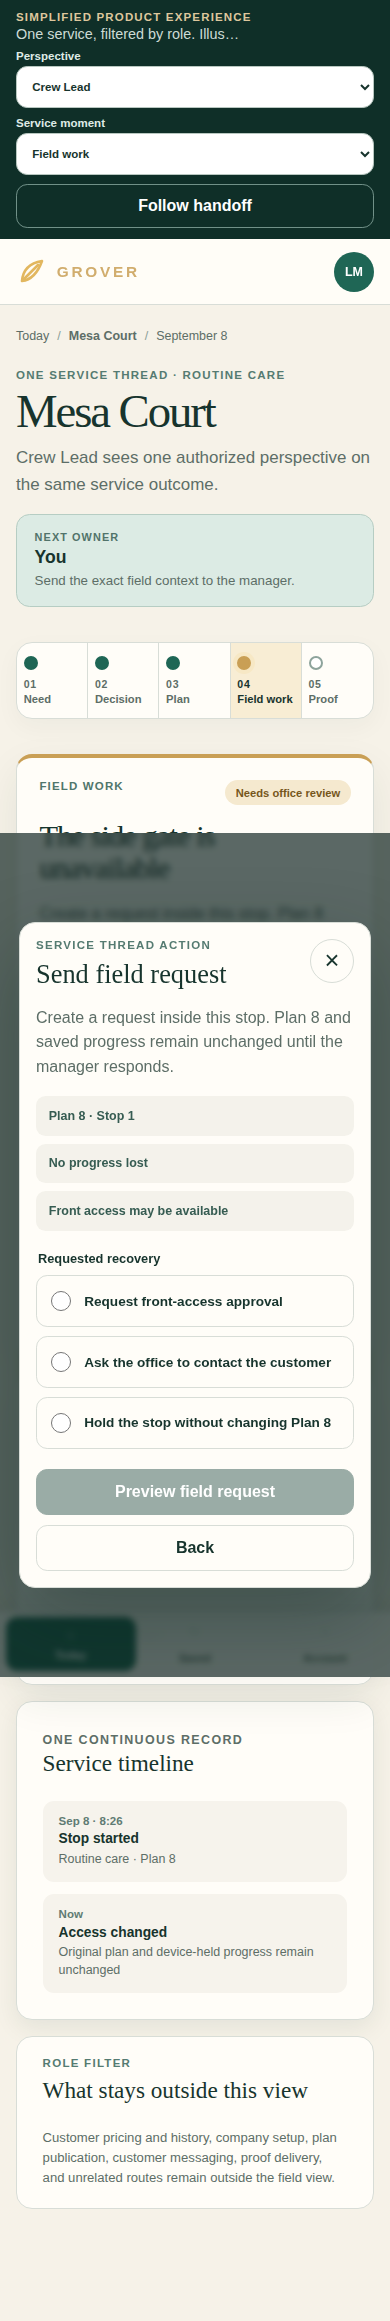
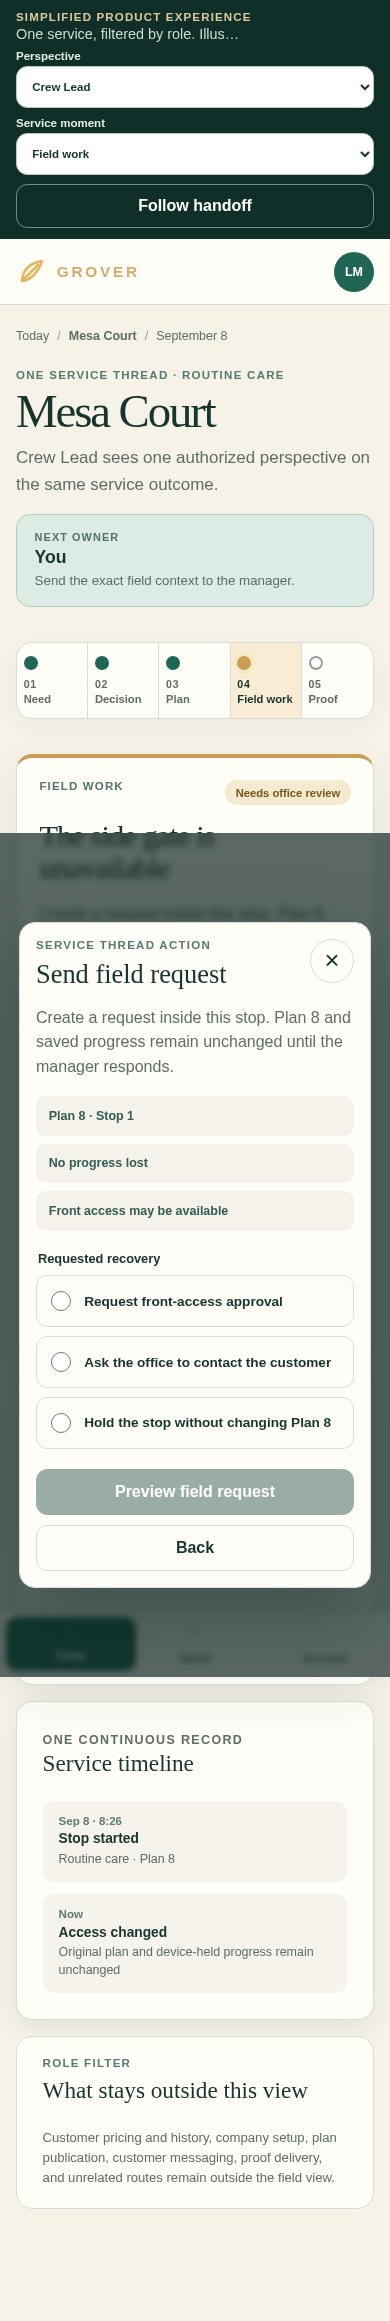
Extend simplified service thread roles

diff --git a/design/prototypes/simplified-service-thread/app.js b/design/prototypes/simplified-service-thread/app.js
@@ -55,6 +55,98 @@ const personas = {
       },
     },
   },
+  property: {
+    name: 'Property Manager', identity: 'Morgan L.', initials: 'ML', family: 'PORTFOLIO SERVICE', collection: 'Properties',
+    nav: [['overview', 'Overview', '⌂'], ['properties', 'Properties', '▦'], ['account', 'Account', '○']], active: 'properties',
+    boundary: 'Provider route versions, crew identity, internal recovery notes, unrelated properties, draft evidence, and company administration remain outside this portfolio view.',
+    why: 'A property manager needs an exception-first portfolio entry, then one complete property service story—not separate property, approval, proof, and provider-operation products.',
+    timeline: {
+      decision: [['Sep 5', 'Routine care requested', 'Mesa Court · authorized property'], ['Sep 6', 'Recommendation version 2 ready', 'Exact property, scope, and decision consequence together']],
+      release: [['Sep 6', 'Version 2 accepted', 'Decision receipt retained'], ['Sep 7', 'Service confirmed', 'September 8 · 8:00–10:00 AM']],
+      field: [['Sep 8 · 8:26', 'Care started', 'Customer-safe portfolio update'], ['Sep 8 · 8:41', 'Access review underway', 'Provider owns the next response']],
+      proof: [['Sep 8 · 9:18', 'Care completed', 'Provider review followed'], ['Sep 8 · 9:34', 'Proof delivered', 'Mesa Court · six tasks and three reviewed photos']],
+    },
+    moments: {
+      decision: {
+        stage: 'Decision', status: 'Portfolio decision', title: 'Mesa Court needs one exact response',
+        copy: 'The authorized property, recommendation version, scope, and consequence remain together.',
+        owner: 'You', update: 'No service is scheduled until an authorized response.',
+        facts: ['Mesa Court · Version 2', '$145 exact total', '11 other properties unaffected'],
+        essentials: [['Portfolio', 'Desert Vista'], ['Property', 'Mesa Court'], ['Requested timing', 'September 8']],
+        action: 'Review property recommendation', choiceLabel: 'Response to version 2', options: ['Accept for Mesa Court', 'Request a property-specific revision', 'Ask a question before deciding'], confirm: 'Preview portfolio response',
+      },
+      release: {
+        stage: 'Plan', status: 'Confirmed', title: 'Mesa Court service is scheduled',
+        copy: 'The accepted decision, property access, and customer-visible timing stay in one property thread.',
+        owner: 'Grover Yard Care', update: 'The provider owns service delivery and the next update.',
+        facts: ['September 8 · 8:00–10:00 AM', 'Property access current', 'No portfolio action required'],
+        essentials: [['Accepted scope', 'Routine yard care'], ['Decision', 'Version 2 accepted'], ['Portfolio impact', 'No other property changed']],
+        action: 'Review confirmed service',
+      },
+      field: {
+        stage: 'Field work', status: 'Provider reviewing', title: 'Mesa Court access is being resolved',
+        copy: 'The portfolio sees the customer-safe consequence and responsible provider without internal route or crew detail.',
+        owner: 'Grover Yard Care', update: 'The current arrival window remains in place.',
+        facts: ['Care began at 8:26 AM', 'Access review in progress', 'No portfolio decision requested'],
+        essentials: [['Property', 'Mesa Court'], ['Service state', 'In progress'], ['Next update', 'Resolution or delivered proof']],
+        action: 'Review property service',
+      },
+      proof: {
+        stage: 'Proof', status: 'Delivered', title: 'Mesa Court care is ready to review',
+        copy: 'The property decision, service chronology, and reviewed proof close one portfolio thread.',
+        owner: 'You', update: 'Review the outcome or continue to another exception.',
+        facts: ['6 tasks completed', '3 provider-reviewed photos', 'No other property affected'],
+        essentials: [['Property', 'Mesa Court'], ['Delivered', 'September 8 · 9:34 AM'], ['Portfolio', 'Desert Vista']],
+        action: 'Review property outcome', choiceLabel: 'Portfolio review', options: ['Outcome is clear for Mesa Court', 'Ask about this exact service'], confirm: 'Preview portfolio response',
+      },
+    },
+  },
+  company: {
+    name: 'Company Owner', identity: 'Avery K.', initials: 'AK', family: 'BUSINESS READINESS', collection: 'Operations',
+    nav: [['home', 'Home', '⌂'], ['operations', 'Operations', '▦'], ['customers', 'Customers', '◇'], ['team', 'Team', '◎']], active: 'operations',
+    boundary: 'Customer-private conversation, route editing, low-level field controls, draft evidence, platform support, and unsupported billing remain outside this owner view.',
+    why: 'The Company Owner enters the exact service only when readiness or business consequence warrants attention. Daily coordination remains with the manager inside the same record.',
+    timeline: {
+      decision: [['Sep 5', 'Mesa Court relationship authorized', 'Customer and property readiness confirmed'], ['Sep 6', 'Manager owns service decision', 'No owner-level blocker remains']],
+      release: [['Sep 6', 'Customer decision completed', 'Exact operating work is ready'], ['Sep 7', 'Tomorrow is operationally covered', 'Manager and Crew Lead ownership confirmed']],
+      field: [['Sep 8 · 8:26', 'Mesa Court service began', 'Routine operating state'], ['Sep 8 · 8:41', 'One service risk is owned', 'Manager response in progress; no owner action']],
+      proof: [['Sep 8 · 9:18', 'Field work completed', 'Manager review followed'], ['Sep 8 · 9:34', 'Customer outcome delivered', 'No owner-level exception remains']],
+    },
+    moments: {
+      decision: {
+        stage: 'Decision', status: 'Ready', title: 'Mesa Court has an accountable manager',
+        copy: 'Relationship readiness and the responsible operator are visible without exposing the customer conversation.',
+        owner: 'Company Manager', update: 'The manager owns the exact service decision.',
+        facts: ['Customer relationship active', 'Property access authorized', 'Manager Riley assigned'],
+        essentials: [['Customer account', 'Mesa Court relationship'], ['Business blocker', 'None'], ['Operating owner', 'Company Manager']],
+        action: 'Review business readiness',
+      },
+      release: {
+        stage: 'Plan', status: 'Operationally covered', title: 'Tomorrow’s Mesa Court service is staffed',
+        copy: 'The owner sees business readiness and accountable roles without receiving plan-editing controls.',
+        owner: 'Company Manager', update: 'Daily coordination remains with operations.',
+        facts: ['Customer commitment covered', 'Crew Lead active', 'No owner decision required'],
+        essentials: [['Service date', 'September 8'], ['Responsible manager', 'Riley T.'], ['Field lead', 'Leah M.']],
+        action: 'Review operating coverage',
+      },
+      field: {
+        stage: 'Field work', status: 'Owned service risk', title: 'Mesa Court has one managed exception',
+        copy: 'Only the business consequence and accountable operator reach the owner; field and plan detail stay with operations.',
+        owner: 'Company Manager', update: 'The arrival promise remains achievable.',
+        facts: ['One customer commitment affected', 'Manager response in progress', 'No owner escalation needed'],
+        essentials: [['Customer impact', 'Window still achievable'], ['Operating owner', 'Riley T.'], ['Business risk', 'Contained']],
+        action: 'Review exception ownership',
+      },
+      proof: {
+        stage: 'Proof', status: 'Customer outcome delivered', title: 'Mesa Court closed without an owner-level issue',
+        copy: 'The owner receives business confidence while detailed proof remains with the authorized customer and manager.',
+        owner: 'Company Manager', update: 'No owner action is required.',
+        facts: ['Service completed', 'Customer outcome delivered', 'No open escalation'],
+        essentials: [['Customer commitment', 'Complete'], ['Operating result', 'Delivered'], ['Owner queue', 'Clear']],
+        action: 'Review business outcome',
+      },
+    },
+  },
   manager: {
     name: 'Company Manager', identity: 'Riley T.', initials: 'RT', family: 'PROVIDER OFFICE', collection: 'Work',
     nav: [['today', 'Today', '⌂'], ['work', 'Work', '▦'], ['customers', 'Customers', '◇'], ['team', 'Team', '◎']], active: 'work',
@@ -154,6 +246,14 @@ const handoffs = {
   'owner/release': ['manager', 'release'],
   'owner/field': ['manager', 'field'],
   'owner/proof': ['manager', 'proof'],
+  'property/decision': ['manager', 'release'],
+  'property/release': ['manager', 'release'],
+  'property/field': ['manager', 'field'],
+  'property/proof': ['manager', 'proof'],
+  'company/decision': ['manager', 'decision'],
+  'company/release': ['manager', 'release'],
+  'company/field': ['manager', 'field'],
+  'company/proof': ['manager', 'proof'],
   'manager/decision': ['owner', 'decision'],
   'manager/release': ['lead', 'release'],
   'manager/field': ['lead', 'field'],

diff --git a/design/index.html b/design/index.html
@@ -61,10 +61,12 @@
   </header>
   <main>
     <section id="working"><h2>Validated working designs</h2><p class="intro">Responsive journeys whose navigation, interactions, states, accessibility, and implementation boundaries can be reviewed in the browser.</p>
-      <div class="working-group"><h3>Simplified service thread · active post-MVP direction</h3><p>A clean-slate design keeps one service outcome intact while Yard Owner, Company Manager, and Crew Lead see only their authorized context and action. Decisions, plan versions, field work, proof, and recovery no longer behave like separate products. <a href="review/simplified-product-experience-plan.md">Read the redesign plan →</a></p><div class="grid working-grid">
+      <div class="working-group"><h3>Simplified service thread · active post-MVP direction</h3><p>A clean-slate design keeps one service outcome intact while Yard Owner, Property Manager, Company Owner, Company Manager, and Crew Lead see only their authorized context and action. Decisions, plan versions, field work, proof, and recovery no longer behave like separate products. <a href="review/simplified-product-experience-plan.md">Read the redesign plan →</a></p><div class="grid working-grid">
         <article><a href="prototypes/simplified-service-thread/index.html#manager/field"><img src="high-fidelity/current/simplified-service-thread-desktop-v1.png" alt="Simplified Company Manager service thread reviewing a Crew Lead field request in exact plan context"><div><h3>One context through recovery</h3><span class="status">COMPANY MANAGER · PLAN 8 · FIELD REQUEST</span><p>The manager reviews the request, customer impact, and exact published plan without leaving the affected service.</p></div></a></article>
         <article class="mobile"><a href="prototypes/simplified-service-thread/index.html#owner/proof"><img src="high-fidelity/current/simplified-service-thread-owner-mobile-v1.png" alt="Simplified Yard Owner service thread showing the complete lifecycle and delivered proof"><div><h3>The whole customer outcome</h3><span class="status">YARD OWNER · DECISION → SERVICE → PROOF</span><p>One thread answers what happened, who owns the next step, and what reviewed evidence closes the service.</p></div></a></article>
         <article class="mobile"><a href="prototypes/simplified-service-thread/index.html#lead/field"><img src="high-fidelity/current/simplified-service-thread-field-mobile-v1.png" alt="Simplified Crew Lead service thread creating a field request without changing the published plan"><div><h3>Field recovery stays with the stop</h3><span class="status">CREW LEAD · ACCESS CHANGE · NO SILENT PLAN EDIT</span><p>Scope, access, saved progress, and the office handoff remain inside the current stop.</p></div></a></article>
+        <article><a href="prototypes/simplified-service-thread/index.html#company/field"><img src="high-fidelity/current/simplified-service-thread-company-owner-desktop-v2.png" alt="Simplified Company Owner service thread showing contained business consequence and accountable operating ownership"><div><h3>Business signal without control clutter</h3><span class="status">COMPANY OWNER · CONTAINED RISK · MANAGER OWNED</span><p>Readiness and consequence reach the owner while route editing and field detail stay with operations.</p></div></a></article>
+        <article class="mobile"><a href="prototypes/simplified-service-thread/index.html#property/decision"><img src="high-fidelity/current/simplified-service-thread-property-manager-mobile-v2.png" alt="Simplified Property Manager service thread reviewing one exact authorized-property decision"><div><h3>One property, one exact response</h3><span class="status">PROPERTY MANAGER · PORTFOLIO EXCEPTION</span><p>The affected property, version, scope, and consequence remain together without exposing provider-private operations.</p></div></a></article>
       </div></div>
       <div class="working-group"><h3>Minimalist persona experiences · prior design direction</h3><p>The active <a href="review/simplified-product-experience-plan.md">post-MVP simplification</a> starts from a clean service-thread model rather than editing these screens in place. This broader task-first review remains reference evidence for all ten personas without defining the new composition or rollout authority. <a href="review/minimalist-persona-prototype-plan.md">Read the prior persona plan →</a></p><div class="grid working-grid">
         <article><a href="prototypes/minimalist-personas/index.html#owner/attention/proof"><img src="high-fidelity/current/minimalist-customer-journey-desktop-v2.png" alt="Connected minimalist Yard Owner delivered-proof experience with a focused response task"><div><h3>Connected customer confidence</h3><span class="status">YARD OWNER · TODAY → VISITS → PROOF</span><p>Preparation continues into a concise visit chronology and only provider-reviewed delivered evidence.</p></div></a></article>

diff --git a/design/prototypes/simplified-service-thread/index.html b/design/prototypes/simplified-service-thread/index.html
@@ -18,6 +18,8 @@
     <label>Perspective
       <select id="persona-picker">
         <option value="owner">Yard Owner</option>
+        <option value="property">Property Manager</option>
+        <option value="company">Company Owner</option>
         <option value="manager">Company Manager</option>
         <option value="lead">Crew Lead</option>
       </select>

diff --git a/PLAN.md b/PLAN.md
@@ -15,7 +15,7 @@ infer execution order from section position.
 | Private review | Tailscale React/PostgreSQL review is available in explicit local-review mode | Preserve for remote validation |
 | Protected hosting | No healthy Render/Cognito deployment is available from the current environment | R1 preflight, then external R2 provisioning and R3 smoke |
 | Product | Core workflows plus activity-to-Recovery exception handoff are delivered | P2 Yard Owner concern/preference boundary requires a product decision |
-| Design | SX1 clean-slate service-thread prototype is validated for Yard Owner, Company Manager, and Crew Lead | Extend the same thread to Company Owner and Property Manager without duplicate lifecycle views |
+| Design | SX2 validates one service thread across Yard Owner, Property Manager, Company Owner, Company Manager, and Crew Lead | Add contextual exception and advanced-capability paths without returning to feature silos |
 
 ## Status Legend
 
@@ -137,13 +137,16 @@ Current state:
   plan versions, field work, proof, and recovery remain contextual to that
   thread. The first clean-slate slice focuses on Yard Owner, Company Manager,
   and Crew Lead without deleting mature capability.
-- SX1 is delivered in the
+- SX1 and SX2 are delivered in the
   [simplified service-thread prototype](design/prototypes/simplified-service-thread/README.md).
   The same Mesa Court service moves through decision, exact release, field work
   and manager-reviewed recovery, proof publication, and customer outcome while
   role filtering prevents provider plan data from reaching the Yard Owner and
-  customer pricing from reaching the Crew Lead. Twelve perspective/moment
-  combinations pass desktop, phone, and narrow-phone browser validation.
+  customer pricing from reaching the Crew Lead. Company Owner and Property
+  Manager enter the same lifecycle through business-readiness and portfolio-
+  exception summaries, with exact Company Manager handoffs. Twenty
+  perspective/moment combinations pass desktop, phone, and narrow-phone
+  browser validation.
 
 Next design slices:
 
@@ -185,10 +188,11 @@ Next design slices:
    boundaries are explicit. Human review and bounded family-by-family React
    adoption remain; production adoption has not started.
 8. Simplified product experience: SX0 is delivered and supersedes the prior MVP
-   framing. SX1 now validates one role-filtered service thread across Yard
-   Owner, Company Manager, and Crew Lead without feature-silo context changes.
-   SX2 extends the same model to Company Owner and Property Manager. Research
-   materials remain usable, but no participant evidence is inferred.
+   framing. SX1 and SX2 validate one role-filtered service thread across Yard
+   Owner, Property Manager, Company Owner, Company Manager, and Crew Lead
+   without feature-silo context changes or duplicate lifecycles. SX3 adds
+   contextual exception and advanced-capability paths next. Research materials
+   remain usable, but no participant evidence is inferred.
 
 Concern handling, provider contact, preferences, external reviews, marketplace,
 and billing remain behind their existing product or external gates.
@@ -1096,9 +1100,10 @@ Current state:
 
 Next design work:
 
-- Build SX2 by adding Company Owner business-readiness entry and Property
-  Manager portfolio-exception entry to the same service thread. Avoid duplicate
-  owner/manager or property/service lifecycles. Use the retained session kit for
+- Build SX3 by adding Support incident entry, no-role recovery, and product-
+  gated billing readiness as contextual paths. Exercise plan conflict, field
+  connectivity, proof failure, ended access, and inconsistent authorization
+  without making them new global products. Use the retained session kit for
   later comparative review and keep capability rollout as a separate
   authorization contract.
 - Adopt the Yard Owner proposal interfaces, separate proposal conversation, and

diff --git a/project-planning/PROTOTYPE_ADOPTION.md b/project-planning/PROTOTYPE_ADOPTION.md
@@ -21,7 +21,7 @@ design direction, historical input, or product-gated boundary.
 
 | Experience | Approved design source | Production status | Remaining production adoption |
 | --- | --- | --- | --- |
-| Simplified product experience | [Active service-thread prototype](../design/prototypes/simplified-service-thread/README.md), [post-MVP plan](../design/review/simplified-product-experience-plan.md), and [retained research kit](../design/review/minimal-product-workflow-session-guide.md) | SX1 validated design direction; production adoption not started | Yard Owner, Company Manager, and Crew Lead now follow one exact service through decision, release, field work/recovery, and proof with role-filtered content. Extend Company Owner and Property Manager next; retain other persona work as broader evidence and begin production adoption only after comparative workflow review. |
+| Simplified product experience | [Active service-thread prototype](../design/prototypes/simplified-service-thread/README.md), [post-MVP plan](../design/review/simplified-product-experience-plan.md), and [retained research kit](../design/review/minimal-product-workflow-session-guide.md) | SX2 validated design direction; production adoption not started | Yard Owner, Property Manager, Company Owner, Company Manager, and Crew Lead now follow one exact service through decision, release, field work/recovery, and proof with role-filtered content. Add contextual exception paths next; retain other persona work as broader evidence and begin production adoption only after comparative workflow review. |
 | Current frontend parity | [Dated responsive mirror](../design/prototypes/current-frontend-review/README.md) and [September 3 audit](../design/review/current-frontend-design-audit-2026-09-03.md) | Dated current mirror | Eight representative surfaces preserve the September 3 baseline. Manager Home urgency, shell compression, and truth/recovery were delivered afterward and are intentionally tracked as post-mirror changes. |
 | Frontend truth and recovery | [Working state prototype](../design/prototypes/frontend-truth-recovery/README.md) and [design contract](../design/review/frontend-truth-recovery-design.md) | Adopted | Five Yard Owner protected-read outcomes map to typed API results with fail-closed loading/error behavior, retry or access review, and Home recovery. Crew Route uses local-day date context and bounded persistence-confidence language while preserving durable offline replay/conflict handling. |
 | All-persona minimal rollout | [Functional-unit prototype](../design/prototypes/yard-owner-minimal-rollout/README.md), [all-persona plan](../design/review/all-persona-minimal-rollout-plan.md), [owner plan](../design/review/yard-owner-minimal-rollout-plan.md), and [crew plan](../design/review/crew-lead-minimal-rollout-plan.md) | Adopted repository behavior; hosted evidence pending | Thirty-six cumulative units cover all ten signed-in persona designs. Exact-scope cohorts, immutable lifecycle audit, guarded owner/support operations, cumulative navigation and persona composition, manager continuity, shell clearance, and the protected per-unit runner are delivered for authoritative roles. Hosted execution, operational enablement, and explicit Dispatcher/Billing backend roles remain. |

diff --git a/project-planning/DELIVERY_BOARD.md b/project-planning/DELIVERY_BOARD.md
@@ -16,7 +16,7 @@ for account access or live-service evidence.
 | Lane | State | Current outcome | Next gate |
 | --- | --- | --- | --- |
 | Repository | Repository-owned rollout UX complete | All audited continuity slices are adopted | R2 hosted cohort evidence or Dispatcher/Billing role decision |
-| Design review | SX1 core service-thread prototype delivered | Yard Owner, Company Manager, and Crew Lead follow one role-filtered service through decision, release, field recovery, and proof | SX2 Company Owner and Property Manager extension |
+| Design review | SX2 service-thread breadth delivered | Yard Owner, Property Manager, Company Owner, Company Manager, and Crew Lead share one role-filtered lifecycle | SX3 contextual exceptions and failure states |
 | Private review | Available | Tailscale review serves the React app and PostgreSQL-backed API in explicit `local_review` mode | Keep it healthy for remote product validation |
 | Protected hosting | External prerequisite | Render readiness returns `404`; no protected deployment is available | Owning-account access, deployed Render Blueprint, Cognito state, and test identity/token |
 | Product expansion | Decision required | Core workflows plus exact activity-to-Recovery exception handoff are delivered | Decide P2 support ownership, response, retention, privacy, and escalation boundaries |
@@ -438,7 +438,8 @@ Following design phase: UX12.
 
 ### UX12 — Simplified post-MVP product experience
 
-State: SX0 experience reset and SX1 core prototype delivered; SX2 next.
+State: SX0 experience reset plus SX1 core and SX2 owner/portfolio prototype
+delivered; SX3 next.
 
 Deliver:
 
@@ -461,8 +462,8 @@ Exit evidence:
 
 Next design phase:
 
-- SX2 Company Owner business-readiness and Property Manager portfolio entry into
-  the same service-thread model.
+- SX3 contextual Support, no-role recovery, product-gated billing readiness,
+  and representative service-thread failure states.
 
 ## Later, not active
 

diff --git a/design/review/decision-log.md b/design/review/decision-log.md
@@ -75,6 +75,7 @@ silently revisit settled product structure.
 | D-068 | Minimal-product workflow scope | Keep the completed ten-persona prototype as future design evidence, but defer Dispatcher and Crew Member from the minimum product; assign planning coordination to Company Manager and field delivery to Crew Lead until validated scale or attribution needs justify separate roles. | Accepted for workflow discovery | 2026-09-08 | Product/design |
 | D-069 | Post-MVP experience simplification | Supersede D-068's MVP framing: preserve mature product capability while reorganizing decisions, plan versions, field activity, proof, handoffs, and recovery around one role-filtered service thread. Begin the clean-slate prototype with Yard Owner, Company Manager, and Crew Lead; retain Dispatcher and Crew Member for later specialization. | Accepted for working design; supersedes D-068 product-stage framing | 2026-09-08 | Product/design |
 | D-070 | Simplified service-thread composition | Use role Home/Today and short queues only to find exact work; keep identity, current state, next owner, one primary action, essentials, lifecycle timeline, contextual tools, and outcome inside the affected service thread. Persona filtering changes detail and authority without creating parallel service records. | Accepted for working design | 2026-09-08 | Product/design |
+| D-071 | Owner and portfolio service-thread entry | Let Company Owner enter only for business readiness or consequence and let Property Manager enter through an authorized-property exception; both reuse the exact service lifecycle and hand off to its accountable Company Manager moment. Do not expose plan editing, provider-private field detail, or create parallel business/portfolio records. | Accepted for working design | 2026-09-08 | Product/design |
 
 ## Open review questions
 

diff --git a/design/ARTIFACT_STATUS.md b/design/ARTIFACT_STATUS.md
@@ -22,7 +22,7 @@ counts, people, dates, providers, or customer claims are production facts.
 
 | Artifact family | Primary classification | Exact boundary |
 | --- | --- | --- |
-| `prototypes/simplified-service-thread/` | Design direction | Active post-MVP clean-slate redesign for Yard Owner, Company Manager, and Crew Lead. One exact illustrative service retains decision, plan, field work, proof, handoff, and recovery context with role-filtered detail. Actions are non-persistent and production adoption has not started. |
+| `prototypes/simplified-service-thread/` | Design direction | Active post-MVP clean-slate redesign for Yard Owner, Property Manager, Company Owner, Company Manager, and Crew Lead. One exact illustrative service retains decision, plan, field work, proof, handoff, and recovery context with role-filtered detail. Actions are non-persistent and production adoption has not started. |
 | `prototypes/minimalist-personas/` | Historical input | Ten personas retain useful task-first and authority-boundary evidence, but the active post-MVP simplification starts from a clean service-thread model rather than editing these compositions. Actions are non-persistent and do not add roles or product authority. |
 | `prototypes/current-frontend-review/` | Current mirror | September 3, 2026 baseline only. Manager continuity and shell compression delivered afterward are intentionally absent. |
 | `prototypes/yard-owner-minimal-rollout/` | Adopted behavior | The version-2 projection, cohort persistence/administration, cumulative navigation, persona composition, manager continuity, and protected runner are implemented for authoritative roles. Hosted cohort execution and explicit Dispatcher/Billing backend roles remain external or gated. |

diff --git a/design/high-fidelity/README.md b/design/high-fidelity/README.md
@@ -27,7 +27,7 @@ hosted cohort evidence, and Dispatcher/Billing backend roles remain gated.
 
 | Artifact | Review images | Purpose |
 | --- | --- | --- |
-| [`../prototypes/simplified-service-thread/index.html`](../prototypes/simplified-service-thread/index.html) | [Manager desktop](current/simplified-service-thread-desktop-v1.png) · [Yard Owner mobile](current/simplified-service-thread-owner-mobile-v1.png) · [Crew Lead mobile](current/simplified-service-thread-field-mobile-v1.png) | Clean-slate post-MVP redesign showing one exact service through customer decision, manager plan/release and recovery, Crew Lead field work, reviewed proof, and the customer outcome without separate feature silos |
+| [`../prototypes/simplified-service-thread/index.html`](../prototypes/simplified-service-thread/index.html) | [Manager desktop](current/simplified-service-thread-desktop-v1.png) · [Company Owner desktop](current/simplified-service-thread-company-owner-desktop-v2.png) · [Yard Owner mobile](current/simplified-service-thread-owner-mobile-v1.png) · [Property Manager mobile](current/simplified-service-thread-property-manager-mobile-v2.png) · [Crew Lead mobile](current/simplified-service-thread-field-mobile-v1.png) | Clean-slate post-MVP redesign showing one exact service through customer and portfolio decisions, owner readiness, manager plan/recovery, Crew Lead field work, reviewed proof, and outcome without separate feature silos |
 
 This artifact is active design direction. It preserves mature capability and
 role filtering while testing a simpler service-thread mental model; it is not

diff --git a/project-planning/ROADMAP.md b/project-planning/ROADMAP.md
@@ -81,11 +81,11 @@ data. The ten-persona journey set remains broad future design evidence.
 The MVP framing is superseded by a post-MVP simplification track. Mature product
 capability remains, but the new design uses a role-filtered service thread so
 customer decisions, plan versions, field work, proof, and recovery stay attached
-to one outcome instead of separate feature silos. The first clean-slate slice
-now validates Yard Owner, Company Manager, and Crew Lead across decision,
-release, field work/recovery, and proof. Company Owner and Property Manager are
-the next extension; Dispatcher and Crew Member remain available for later
-specialization rather than defining the core thread.
+to one outcome instead of separate feature silos. The first two clean-slate
+slices now validate Yard Owner, Property Manager, Company Owner, Company
+Manager, and Crew Lead across decision, release, field work/recovery, and proof.
+Contextual exception paths are next; Dispatcher and Crew Member remain available
+for later specialization rather than defining the core thread.
 The first control-plane slices are now delivered in `GET /me/access`: versioned
 persona/scope projections come only from active server-side access, duplicate
 role scopes collapse, and all product capabilities are default off. G1 access

diff --git a/design/review/simplified-product-experience-plan.md b/design/review/simplified-product-experience-plan.md
@@ -300,7 +300,7 @@ Delivered evidence:
 
 ### SX2 — Owner and portfolio extension
 
-State: next.
+State: delivered as validated design direction; production adoption not started.
 
 - Add Company Owner business-readiness entry and role overlap with Company
   Manager.
@@ -311,9 +311,22 @@ State: next.
 Exit: owner-level and portfolio-level breadth changes the queue and authorized
 detail, not the core workflow.
 
+Delivered evidence:
+
+- Company Owner receives business readiness, accountable operating ownership,
+  contained consequence, and outcome without plan-editing or field controls.
+- Property Manager receives exact authorized-property decisions, customer-safe
+  progress, and reviewed outcome without provider-private route or crew detail.
+- Both perspectives retain the Mesa Court lifecycle and hand off to the exact
+  Company Manager moment instead of creating parallel owner or portfolio
+  records.
+- Twenty perspective/moment combinations pass desktop, mobile, and narrow-phone
+  validation; Company Owner desktop and Property Manager mobile captures are
+  published in the design gallery.
+
 ### SX3 — Exceptions and advanced capability
 
-State: planned.
+State: next.
 
 - Add Support incident entry, no-role recovery, and product-gated billing
   readiness as contextual paths.

diff --git a/project-planning/FEATURE_CATALOG.md b/project-planning/FEATURE_CATALOG.md
@@ -98,8 +98,9 @@ boundary; inclusion here alone does not mean a feature shipped.
 - Post-MVP simplification design that preserves mature capability while using a
   role-filtered service thread to keep decisions, planning, field work, proof,
   handoffs, and recovery attached to one customer outcome; the validated first
-  prototype slice covers Yard Owner, Company Manager, and Crew Lead across four
-  service moments and three responsive viewports
+  two prototype slices cover Yard Owner, Property Manager, Company Owner,
+  Company Manager, and Crew Lead across four service moments and three
+  responsive viewports without duplicate lifecycles
 - Shared authenticated Home with signed-in identity, persona context, source-
   appropriate work/sync summary, persona-specific quick actions, and a direct
   action from the current priority notice
